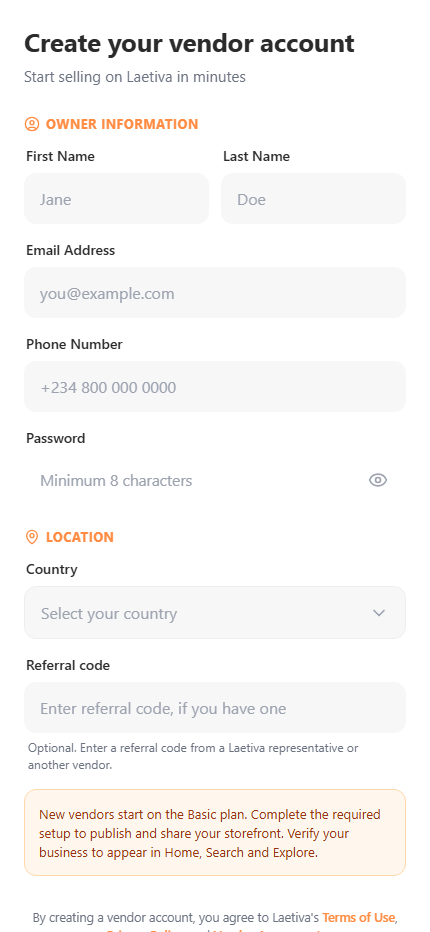
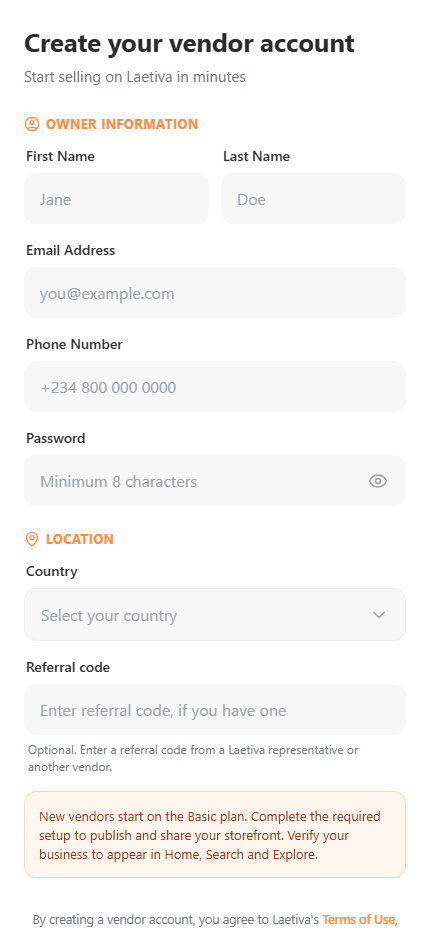
Re-capture Phase 1 evidence after the registration and legal-link changes
Two things had moved since the previous set, so it was replaced rather than
added to.

The password field was restyled to match the rest of the form. It previously
had its own background, border width and font size and did not look like the
fields directly above it. Shot 05 is new and shows the visibility toggle.

Legal documents now open on the website rather than an in-app screen, so the
old shot of that screen has been dropped. It showed a journey that no longer
happens, which is worse than having no screenshot at all.

Each link was verified individually against the running app rather than
assumed: Terms of Use opens the platform.com/terms-of-service, Privacy Policy opens
/privacy-policy, Vendor Agreement opens /vendor-terms. Recorded in the folder's
README along with why the destination is deliberately not screenshotted, since
those pages are waiting on legal copy through the CMS.

Phase 2 evidence was checked and left alone: the item detail screen, the
moderation card and the catalog context have not changed since it was captured,
so those five screenshots are still accurate.

diff --git a/docs/phase1-evidence/README.md b/docs/phase1-evidence/README.md
@@ -1,0 +1,44 @@
+# Phase 1 evidence
+
+Captured by driving the real app against the real backend. Every screenshot
+comes from an account created during the run, not from seeded data.
+
+| # | Shows |
+|---|---|
+| 01 | Login screen |
+| 02 | Choose account type |
+| 03 | Vendor registration, the seven agreed fields only |
+| 04 | Registration filled in |
+| 05 | Password visibility toggle |
+| 06 | Country picker |
+| 07 | Country selected, no state or area asked for at signup |
+| 08 | Legal consent above the button, three documents separately tappable |
+| 09 | Dashboard immediately after registration |
+| 10 | Storefront setup checklist |
+| 11 | Checklist continued |
+
+## Why this set replaced the previous one
+
+Two things changed after the first capture.
+
+**The password field was restyled.** It had its own background colour, border
+width and font size, so it did not match the fields directly above it on the
+same form. Shot 05 shows the corrected field with its visibility toggle.
+
+**Legal documents now open on the website.** The previous set had a shot of an
+in-app legal screen, reached by tapping "Terms of Use" on the registration form.
+That screen is no longer part of this flow, so the screenshot has been removed
+rather than left in place showing a journey that no longer happens.
+
+The links were verified individually against the running app:
+
+| Link | Opens |
+|---|---|
+| Terms of Use | `https://the platform.com/terms-of-service` |
+| Privacy Policy | `https://the platform.com/privacy-policy` |
+| Vendor Agreement | `https://the platform.com/vendor-terms` |
+
+Those routes exist and render in the the platform-website repo. They currently show
+"Content pending publication" because the legal copy has not been published
+through the CMS yet, so there is deliberately no screenshot of the destination:
+it would show a page waiting on content rather than anything about this phase.
